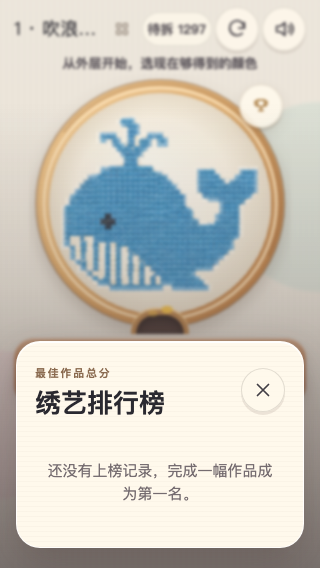
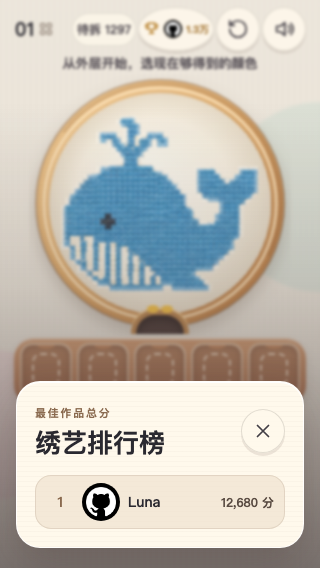
Polish compact HUD and stable gallery

diff --git a/src/ui/view.ts b/src/ui/view.ts
@@ -4,7 +4,7 @@ import type { GameEngine } from '../game/engine'
 import type { GameSnapshot, LevelDefinition, SpoolState, ThreadColor } from '../game/types'
 import { t } from '../i18n'
 import type { LeaderboardEntry, LeaderboardService } from '../platform/contracts'
-import { arrowIcon, closeIcon, galleryIcon, rankIcon, restartIcon, soundIcon } from './icons'
+import { arrowIcon, closeIcon, galleryIcon, lockIcon, rankIcon, restartIcon, soundIcon } from './icons'
 
 function escapeHtml(value: string): string {
   return value.replace(/[&<>'"]/g, (character) => ({
@@ -34,6 +34,7 @@ export class GameView {
   private readonly headingButton: HTMLButtonElement
   private readonly championButton: HTMLButtonElement | null
   private galleryOpen = false
+  private galleryRenderedUnlocked = -1
   private leaderboardOpen = false
   private leaderboardRows: LeaderboardEntry[] = []
   constructor(root: HTMLElement, private readonly leaderboard: LeaderboardService | null) {
@@ -41,11 +42,11 @@ export class GameView {
       <div class="ss-app">
         <header class="ss-header">
           <button class="ss-heading" type="button">
-            <span class="ss-kicker">${t('game.title')}</span>
-            <span class="ss-heading__line"><span class="ss-level"></span>${galleryIcon}</span>
+            <span class="ss-level"></span>${galleryIcon}
           </button>
           <div class="ss-header__actions">
             <span class="ss-remaining"></span>
+            ${leaderboard ? `<button class="ss-champion ss-icon-button" type="button" aria-label="${t('action.rank')}">${rankIcon}</button>` : ''}
             <button class="ss-restart ss-icon-button" type="button">${restartIcon}</button>
             <button class="ss-icon-button ss-sound" type="button"></button>
           </div>
@@ -54,7 +55,6 @@ export class GameView {
         <section class="ss-board" aria-label="${t('game.title')}">
           <canvas class="ss-board__canvas" role="img"></canvas>
           <div class="ss-board__portal" aria-hidden="true"><span></span><span></span></div>
-          ${leaderboard ? `<button class="ss-champion" type="button" aria-label="${t('action.rank')}">${rankIcon}<span>${t('action.rank')}</span></button>` : ''}
         </section>
         <section class="ss-rack" aria-label="reel rack"><div class="ss-slots"></div></section>
         <section class="ss-tray" aria-label="thread reels"></section>
@@ -116,7 +116,7 @@ export class GameView {
   }
 
   update(snapshot: GameSnapshot, engine: GameEngine): void {
-    this.levelLabel.textContent = `${snapshot.level.id} · ${t(snapshot.level.titleKey)}`
+    this.levelLabel.textContent = String(snapshot.level.id).padStart(2, '0')
     this.remainingLabel.textContent = t('hud.remaining', { n: snapshot.remaining })
     this.message.textContent = t(snapshot.messageKey)
     this.canvas.setAttribute('aria-label', `${t(snapshot.level.titleKey)}，${t('hud.remaining', { n: snapshot.remaining })}`)
@@ -137,14 +137,23 @@ export class GameView {
     if (!this.championButton) return
     const champion = this.leaderboardRows[0]
     if (!champion) {
-      this.championButton.innerHTML = `${rankIcon}<span>${t('action.rank')}</span>`
+      this.championButton.innerHTML = rankIcon
+      this.championButton.setAttribute('aria-label', t('action.rank'))
       return
     }
+    const characters = Array.from(champion.name.trim())
+    const limit = /\p{Script=Han}/u.test(champion.name) ? 2 : 3
+    const initials = characters.slice(0, limit).join('').toUpperCase() || '?'
     const avatar = safeAvatar(champion.avatarUrl)
-    const avatarMarkup = avatar
+    const identity = avatar
       ? `<img src="${avatar}" alt="" draggable="false" />`
-      : `<span class="ss-champion__initial" aria-hidden="true">${escapeHtml(champion.name.slice(0, 1).toUpperCase() || '?')}</span>`
-    this.championButton.innerHTML = `${rankIcon}${avatarMarkup}<strong>${champion.score.toLocaleString()}</strong>`
+      : `<span class="ss-champion__initial">${escapeHtml(initials)}</span>`
+    const compactScore = new Intl.NumberFormat(undefined, {
+      notation: 'compact',
+      maximumFractionDigits: 1,
+    }).format(champion.score)
+    this.championButton.innerHTML = `${rankIcon}${identity}<strong>${escapeHtml(compactScore)}</strong>`
+    this.championButton.setAttribute('aria-label', `${t('action.rank')} · ${champion.name} · ${champion.score.toLocaleString()}`)
   }
 
   private renderSlots(snapshot: GameSnapshot): void {
@@ -226,6 +235,7 @@ export class GameView {
     if (snapshot.phase === 'playing') {
       this.overlay.hidden = true
       this.overlay.innerHTML = ''
+      this.galleryRenderedUnlocked = -1
       return
     }
     this.overlay.hidden = false
@@ -304,6 +314,11 @@ export class GameView {
   }
 
   private renderGallery(engine: GameEngine): void {
+    if (this.galleryRenderedUnlocked === engine.unlockedLevel && this.overlay.querySelector('.ss-gallery')) {
+      this.overlay.hidden = false
+      return
+    }
+    const previousScroll = this.overlay.querySelector<HTMLElement>('.ss-gallery__scroll')?.scrollTop ?? 0
     const colorCount = (level: LevelDefinition): number => new Set(level.rows.join('').replaceAll('.', '')).size
     const chapters = [2, 3, 4, 5, 6].map((count) => ({
       key: `chapter.colors${count}`,
@@ -326,8 +341,8 @@ export class GameView {
                   const colors = colorCount(level)
                   return `
                     <button class="ss-gallery-card ${unlocked ? '' : 'ss-gallery-card--locked'}" type="button" data-level="${level.id}" ${unlocked ? '' : 'disabled'}>
-                      <span class="ss-gallery-card__icon" aria-hidden="true"><canvas class="ss-pattern-thumb" data-pattern-level="${level.id}"></canvas></span>
-                      <span class="ss-gallery-card__copy"><strong>${level.id} · ${t(level.titleKey)}</strong><small>${unlocked ? t('gallery.colors', { n: colors }) : t('gallery.locked')}</small></span>
+                      <span class="ss-gallery-card__icon" aria-hidden="true">${unlocked ? `<canvas class="ss-pattern-thumb" data-pattern-level="${level.id}"></canvas>` : lockIcon}</span>
+                      <span class="ss-gallery-card__copy"><strong>${unlocked ? `${level.id} · ${t(level.titleKey)}` : String(level.id).padStart(2, '0')}</strong>${unlocked ? `<small>${t('gallery.colors', { n: colors })}</small>` : ''}</span>
                     </button>
                   `
                 }).join('')}
@@ -337,7 +352,10 @@ export class GameView {
         </div>
       </div>
     `
+    this.galleryRenderedUnlocked = engine.unlockedLevel
     this.paintPatternCanvases()
+    const scroll = this.overlay.querySelector<HTMLElement>('.ss-gallery__scroll')
+    if (scroll) scroll.scrollTop = previousScroll
     this.overlay.querySelector('.ss-gallery__close')?.addEventListener('click', () => {
       this.galleryOpen = false
       this.renderOverlay(engine.snapshot, engine)

diff --git a/src/styles.css b/src/styles.css
@@ -84,20 +84,21 @@ button {
 
 .ss-header {
   min-width: 0;
-  min-height: 50px;
+  min-height: 44px;
   display: flex;
   align-items: center;
   justify-content: space-between;
-  gap: 12px;
+  gap: 6px;
 }
 
 .ss-heading {
-  flex: 1 1 auto;
-  min-width: 0;
+  flex: 0 0 auto;
+  min-width: 54px;
   min-height: 44px;
-  padding: 0;
-  display: block;
-  overflow: hidden;
+  padding: 0 4px;
+  display: inline-flex;
+  align-items: center;
+  gap: 6px;
   border: 0;
   background: transparent;
   color: inherit;
@@ -105,14 +106,7 @@ button {
   cursor: pointer;
 }
 
-.ss-heading__line {
-  min-width: 0;
-  display: flex;
-  align-items: center;
-  gap: 5px;
-}
-
-.ss-heading__line > svg {
+.ss-heading > svg {
   flex: 0 0 16px;
   width: 16px;
   height: 16px;
@@ -121,31 +115,20 @@ button {
   stroke-width: 1.8;
 }
 
-.ss-kicker {
-  display: block;
-  margin-bottom: 1px;
-  color: #68626a;
-  font-size: 12px;
-  font-weight: 700;
-  letter-spacing: .16em;
-}
-
 .ss-level {
-  min-width: 0;
   display: block;
-  overflow: hidden;
   color: #2a2930;
-  font-size: clamp(20px, 5.8vw, 27px);
-  line-height: 1.08;
-  text-overflow: ellipsis;
-  white-space: nowrap;
+  font-size: 22px;
+  font-weight: 800;
+  line-height: 1;
+  font-variant-numeric: tabular-nums;
 }
 
 .ss-header__actions {
   flex: 0 0 auto;
   display: flex;
   align-items: center;
-  gap: 8px;
+  gap: 6px;
 }
 
 .ss-remaining {
@@ -254,44 +237,27 @@ button {
 .ss-board__portal span:last-child { right: 11px; animation-delay: -.4s; }
 
 .ss-champion {
-  position: absolute;
-  z-index: 8;
-  top: 9px;
-  right: 8px;
+  flex-basis: auto;
   min-width: 44px;
-  min-height: 44px;
-  padding: 6px 10px;
-  display: inline-flex;
-  align-items: center;
-  justify-content: center;
+  width: auto;
+  max-width: 104px;
+  padding: 0 8px;
+  display: flex;
   gap: 6px;
-  border: 1px solid rgba(103, 75, 51, .2);
-  border-radius: 999px;
-  background: rgba(255, 249, 236, .9);
-  color: #4d4038;
-  box-shadow: 0 3px 0 rgba(92, 65, 45, .14), 0 6px 14px rgba(64, 46, 38, .1);
-  font-size: 11px;
-  font-weight: 800;
-  cursor: pointer;
+  color: #9b681f;
 }
 
-.ss-champion:active { transform: translateY(2px); box-shadow: 0 1px 0 rgba(92, 65, 45, .14); }
-.ss-champion:focus-visible { outline: 3px solid #4e8bcb; outline-offset: 2px; }
-.ss-champion > svg { width: 18px; height: 18px; fill: none; stroke: #a06d2d; stroke-width: 1.8; stroke-linecap: round; stroke-linejoin: round; }
-.ss-champion img,
-.ss-champion__initial {
+.ss-champion > svg { width: 20px; height: 20px; stroke: #b37a22; }
+.ss-champion > img {
   width: 24px;
   height: 24px;
   flex: 0 0 24px;
-  display: grid;
-  place-items: center;
   border: 1px solid rgba(86, 61, 47, .18);
   border-radius: 50%;
-  background: #e7d8bd;
   object-fit: cover;
-  font-size: 10px;
 }
-.ss-champion strong { font-variant-numeric: tabular-nums; }
+.ss-champion__initial { overflow: hidden; max-width: 24px; font-size: 11px; font-weight: 900; text-overflow: ellipsis; white-space: nowrap; }
+.ss-champion > strong { font-size: 11px; font-weight: 900; font-variant-numeric: tabular-nums; white-space: nowrap; }
 
 .ss-rack {
   position: relative;
@@ -736,8 +702,10 @@ button {
 }
 
 .ss-gallery-card--locked {
-  filter: grayscale(.8);
-  opacity: .48;
+  border-style: dashed;
+  background: rgba(226, 213, 193, .58);
+  box-shadow: none;
+  opacity: .78;
   cursor: default;
 }
 
@@ -749,6 +717,27 @@ button {
   border-radius: 50%;
   background: rgba(255,249,236,.9);
   color: #52785e;
+}
+
+.ss-gallery-card__icon > svg {
+  width: 24px;
+  height: 24px;
+  fill: none;
+  stroke: currentColor;
+  stroke-width: 1.8;
+  stroke-linecap: round;
+  stroke-linejoin: round;
+}
+
+.ss-gallery-card--locked .ss-gallery-card__icon {
+  background: rgba(255, 249, 236, .62);
+  color: #8b7967;
+}
+
+.ss-gallery-card--locked strong {
+  color: #796d63;
+  font-size: 18px;
+  font-variant-numeric: tabular-nums;
 }
 
 .ss-pattern-thumb {
@@ -924,7 +913,6 @@ button {
   .ss-header { min-height: 42px; }
   .ss-header__actions { gap: 4px; }
   .ss-remaining { min-width: 64px; padding-inline: 7px; }
-  .ss-kicker { display: none; }
   .ss-level { font-size: 20px; }
   .ss-message { min-height: 20px; font-size: 13px; }
   .ss-rack { padding: 5px 6px 7px; }
@@ -937,11 +925,14 @@ button {
 }
 
 @media (max-width: 340px) {
-  .ss-level { font-size: 18px; }
-  .ss-header__actions { gap: 3px; }
-  .ss-remaining { min-width: 60px; padding-inline: 5px; font-size: 13px; }
-  .ss-champion { padding-inline: 8px; }
-  .ss-champion > span { display: none; }
+  .ss-heading { min-width: 48px; gap: 4px; padding-inline: 1px; }
+  .ss-level { font-size: 19px; }
+  .ss-header__actions { gap: 2px; }
+  .ss-remaining { min-width: 58px; padding-inline: 4px; font-size: 12px; }
+  .ss-champion { max-width: 76px; padding-inline: 4px; gap: 3px; }
+  .ss-champion > svg { width: 18px; height: 18px; }
+  .ss-champion > img { width: 20px; height: 20px; flex-basis: 20px; }
+  .ss-champion > strong { font-size: 10px; }
 }
 
 @media (min-width: 521px) {

diff --git a/src/ui/icons.ts b/src/ui/icons.ts
@@ -4,7 +4,7 @@ export function soundIcon(muted: boolean): string {
     : '<svg viewBox="0 0 24 24" aria-hidden="true"><path d="M4 9v6h4l5 4V5L8 9H4Z"/><path d="M17 8.5a5 5 0 0 1 0 7M19.5 6a8.5 8.5 0 0 1 0 12"/></svg>'
 }
 
-export const restartIcon = '<svg viewBox="0 0 24 24" aria-hidden="true"><path d="M20 11a8 8 0 1 0-2.34 5.66"/><path d="M20 5v6h-6"/></svg>'
+export const restartIcon = '<svg viewBox="0 0 24 24" aria-hidden="true"><path d="M3 12a9 9 0 1 0 9-9 9.75 9.75 0 0 0-6.74 2.74L3 8"/><path d="M3 3v5h5"/></svg>'
 
 export const arrowIcon = '<svg viewBox="0 0 24 24" aria-hidden="true"><path d="M5 12h14m-5-5 5 5-5 5"/></svg>'
 
@@ -13,6 +13,8 @@ export const galleryIcon = '<svg viewBox="0 0 24 24" aria-hidden="true"><rect x=
 export const closeIcon = '<svg viewBox="0 0 24 24" aria-hidden="true"><path d="m6 6 12 12M18 6 6 18"/></svg>'
 
 export const rankIcon = '<svg viewBox="0 0 24 24" aria-hidden="true"><path d="M7 4h10v4a5 5 0 0 1-10 0V4Z"/><path d="M9 18h6M12 13v5M7 6H4v2a4 4 0 0 0 4 4M17 6h3v2a4 4 0 0 1-4 4"/></svg>'
+
+export const lockIcon = '<svg viewBox="0 0 24 24" aria-hidden="true"><rect x="6" y="10" width="12" height="10" rx="2"/><path d="M8.5 10V7.5a3.5 3.5 0 0 1 7 0V10M12 14v2"/></svg>'
 
 export function revealIcon(kind: string): string {
   const paths: Record<string, string> = {

diff --git a/doc/technical.md b/doc/technical.md
@@ -97,7 +97,7 @@ _qa/
 
 ### UI、输入、音频与 i18n
 
-`GameView` 渲染 HUD、五槽、四列牌、绣品册、结果层和可选榜单。游戏牌用 `pointerdown`；可滚动绣品册和榜单使用 `click`。根游戏区域用 `touch-action: manipulation` 并阻止默认 `dblclick`，保留两次游戏输入但不触发页面放大；滚动层恢复 `pan-y pinch-zoom`。所有可见文案经过 `t()`，支持 zh/en。音频在首次手势后解锁，失败时静默降级，不参与权威状态更新。
+`GameView` 渲染紧凑 HUD、五槽、四列牌、绣品册、结果层和可选榜单。绣品册打开时按已解锁最高关缓存其 DOM，不因引擎动画帧重复重建而改变 `scrollTop`；未解锁卡片只渲染编号与锁，不创建图案 Canvas。游戏牌用 `pointerdown`；可滚动绣品册和榜单使用 `click`。根游戏区域用 `touch-action: manipulation` 并阻止默认 `dblclick`，保留两次游戏输入但不触发页面放大；滚动层恢复 `pan-y pinch-zoom`。所有可见文案经过 `t()`，支持 zh/en。音频在首次手势后解锁，失败时静默降级，不参与权威状态更新。
 
 游戏没有自有玩法后台、头像或微信权限依赖。核心引擎只接收 `ProgressRepository`，不导入 Aigram；`PlatformServices` 在入口组合本地仓库与可选平台能力。没有有效宿主身份时 `leaderboard` 为 `null`，榜首入口和榜单完全不渲染；移除 `src/platform/` 并改为 `LocalProgressRepository` 后仍可完整运行。Aigram 环境按当前游戏 UUID 提交总绣艺分、展示榜首/完整榜单/自己标记，并只向本次刚超过的最高分用户发送 `score_beat`。Pages 仍是同 commit 的静态前端镜像，默认退化为本地存档且无榜单。
 

diff --git a/doc/visual.md b/doc/visual.md
@@ -60,10 +60,12 @@
 - 字体：`PingFang SC`, `Noto Sans CJK SC`, system-ui；标题 18–24px，状态 14–16px，线轴数字 18–22px。
 - 功能图标为同一套 2px 圆角描边 SVG；Emoji 不作为功能图标。
 - 重开图标使用同心圆弧与在圆弧端点闭合的箭头，不使用箭头尖与圆弧分离的旧手写路径。
+- 顶部左侧只显示两位关卡编号与图鉴图标，不常驻游戏名和作品标题；完整作品名留在图鉴与结算页。
+- 排行榜入口与剩余针脚、重开、声音处于同一排：无记录时只显示金杯；有记录后显示金杯、榜首头像与紧凑分数，头像不可用才回退为中文前两字或英文前三个字母；完整分数留在榜单内，也不悬浮覆盖绣绷。
 - 重开、声音、关闭和主按钮均至少 44×44px；移动端不依赖 hover。
-- 关卡标题可在极窄屏单行省略，但编号、剩余针脚、重开和声音必须保持可用。
+- 极窄屏仍必须完整保留关卡编号、图鉴入口、剩余针脚、排行榜、重开和声音；榜首分数允许使用 `1.3万 / 12.7K` 一类紧凑写法。
 - 排行榜属于可选社交层：宿主支持时显示同体系奖杯入口与暖白绣布材质榜单；宿主不支持时整层不渲染、不占位。
-- 绣品册为两列滚动卡片，按 2/3/4/5/6 种线色分章；缩略图直接使用源纹理。
+- 绣品册为两列滚动卡片，按 2/3/4/5/6 种线色分章；已解锁缩略图直接使用源纹理，未解锁卡片只显示关卡编号与统一锁形，不提前泄露作品名、图案或颜色缩略图。
 - 结算页使用十字绣缩略图作装饰，不使用临时 SVG 图案；失败页明确写出当前外层需要的颜色。
 
 ## 7. Motion and sound relationship
